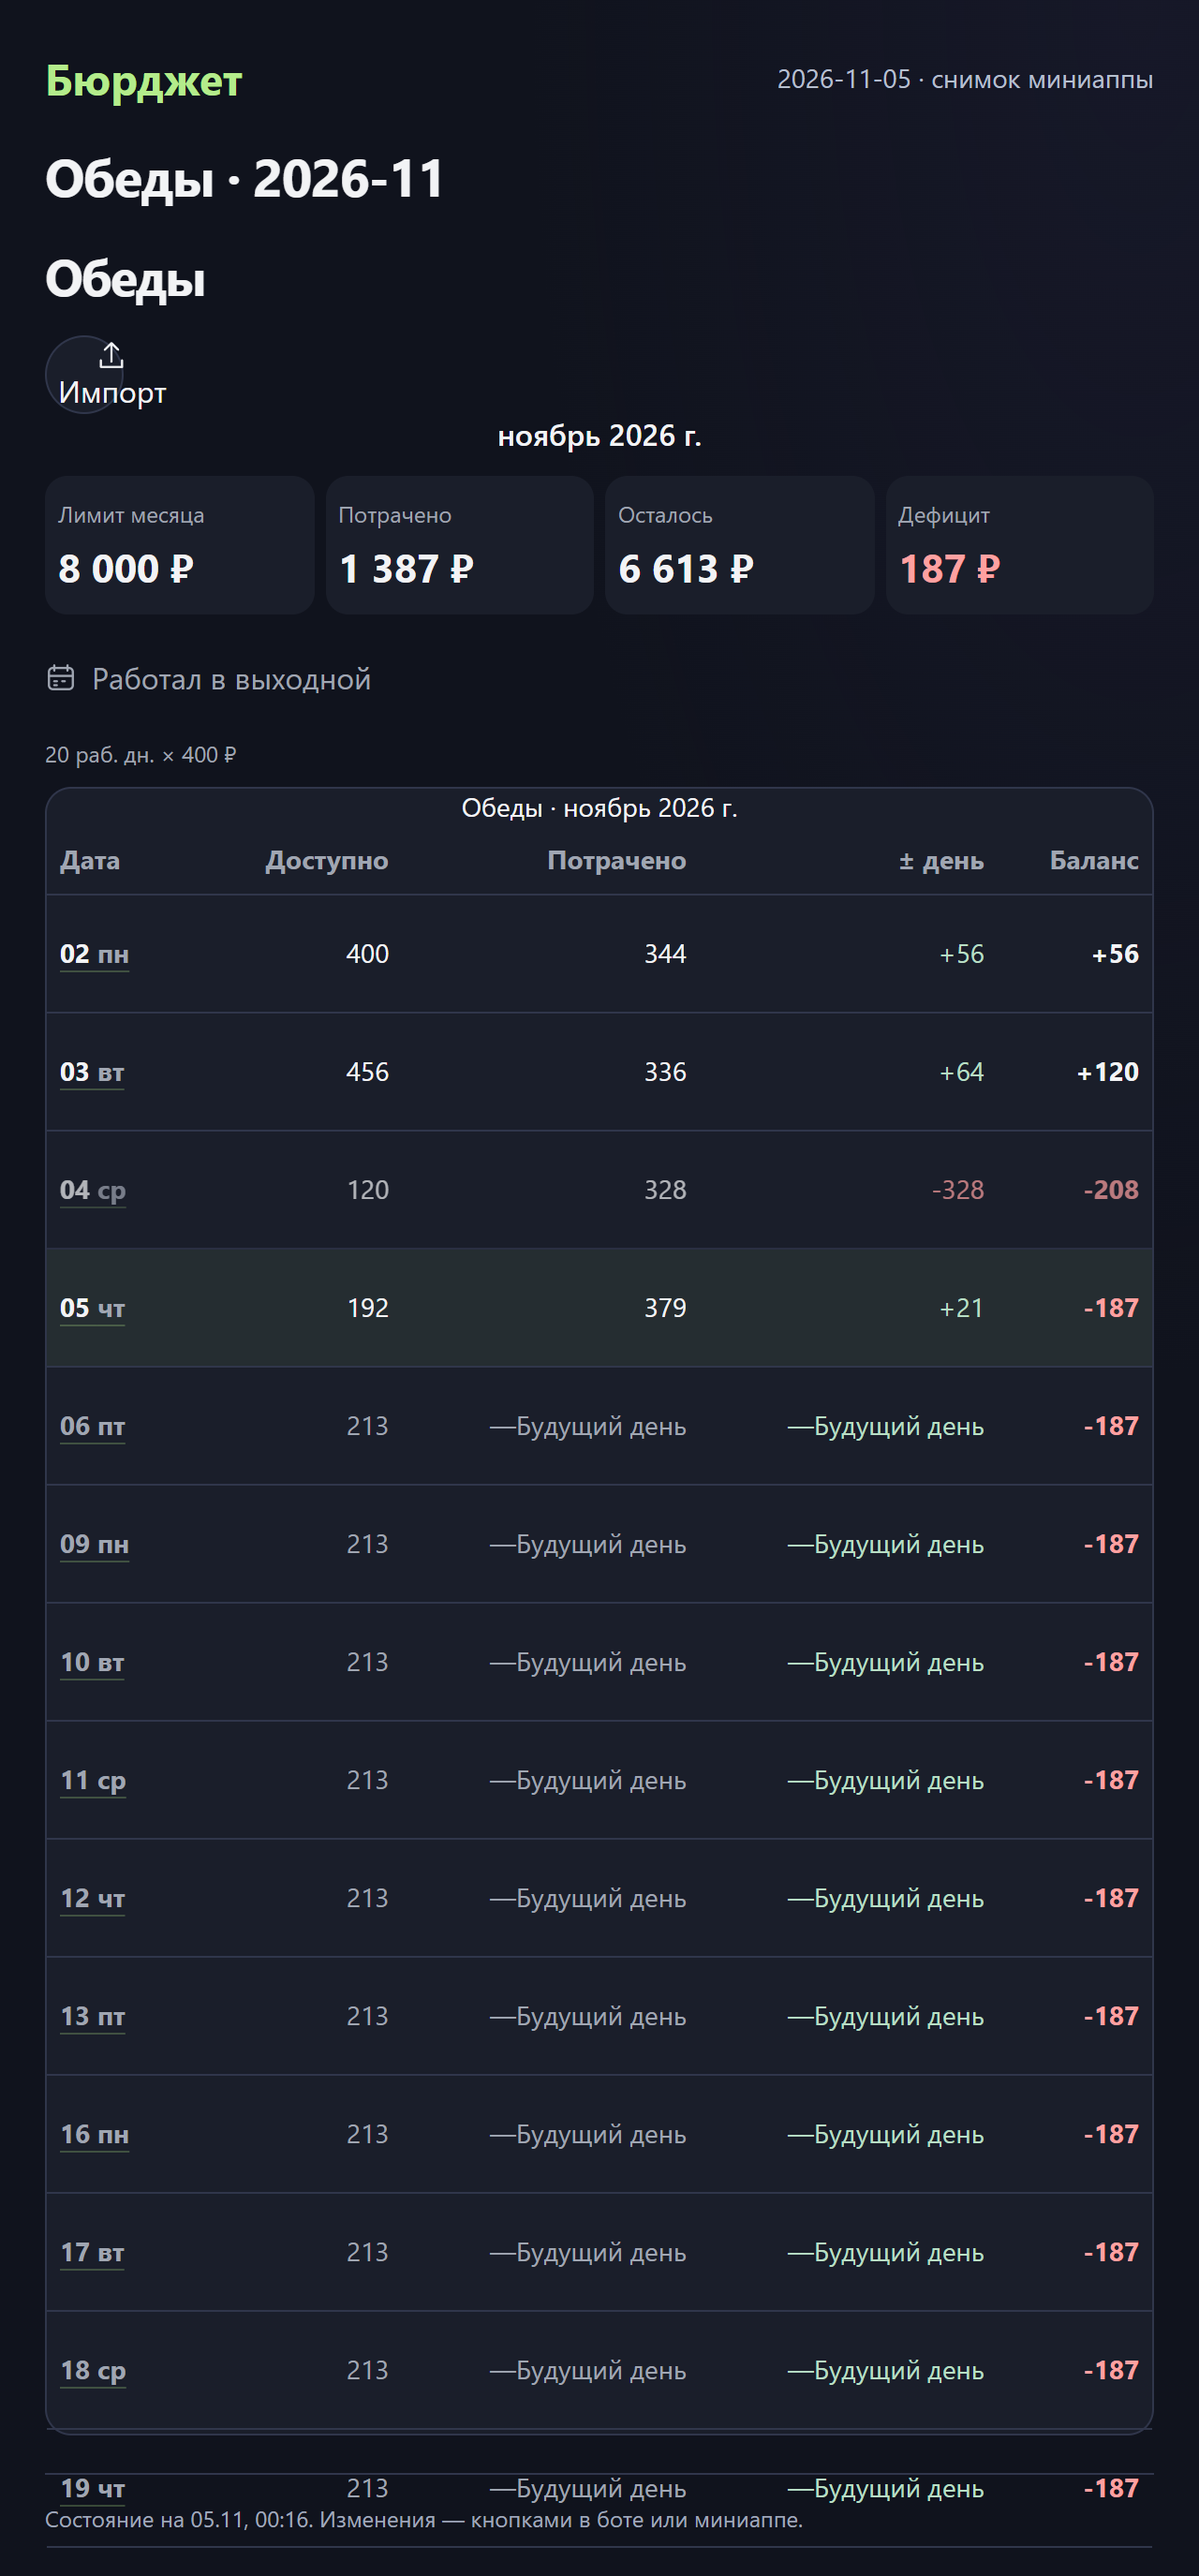
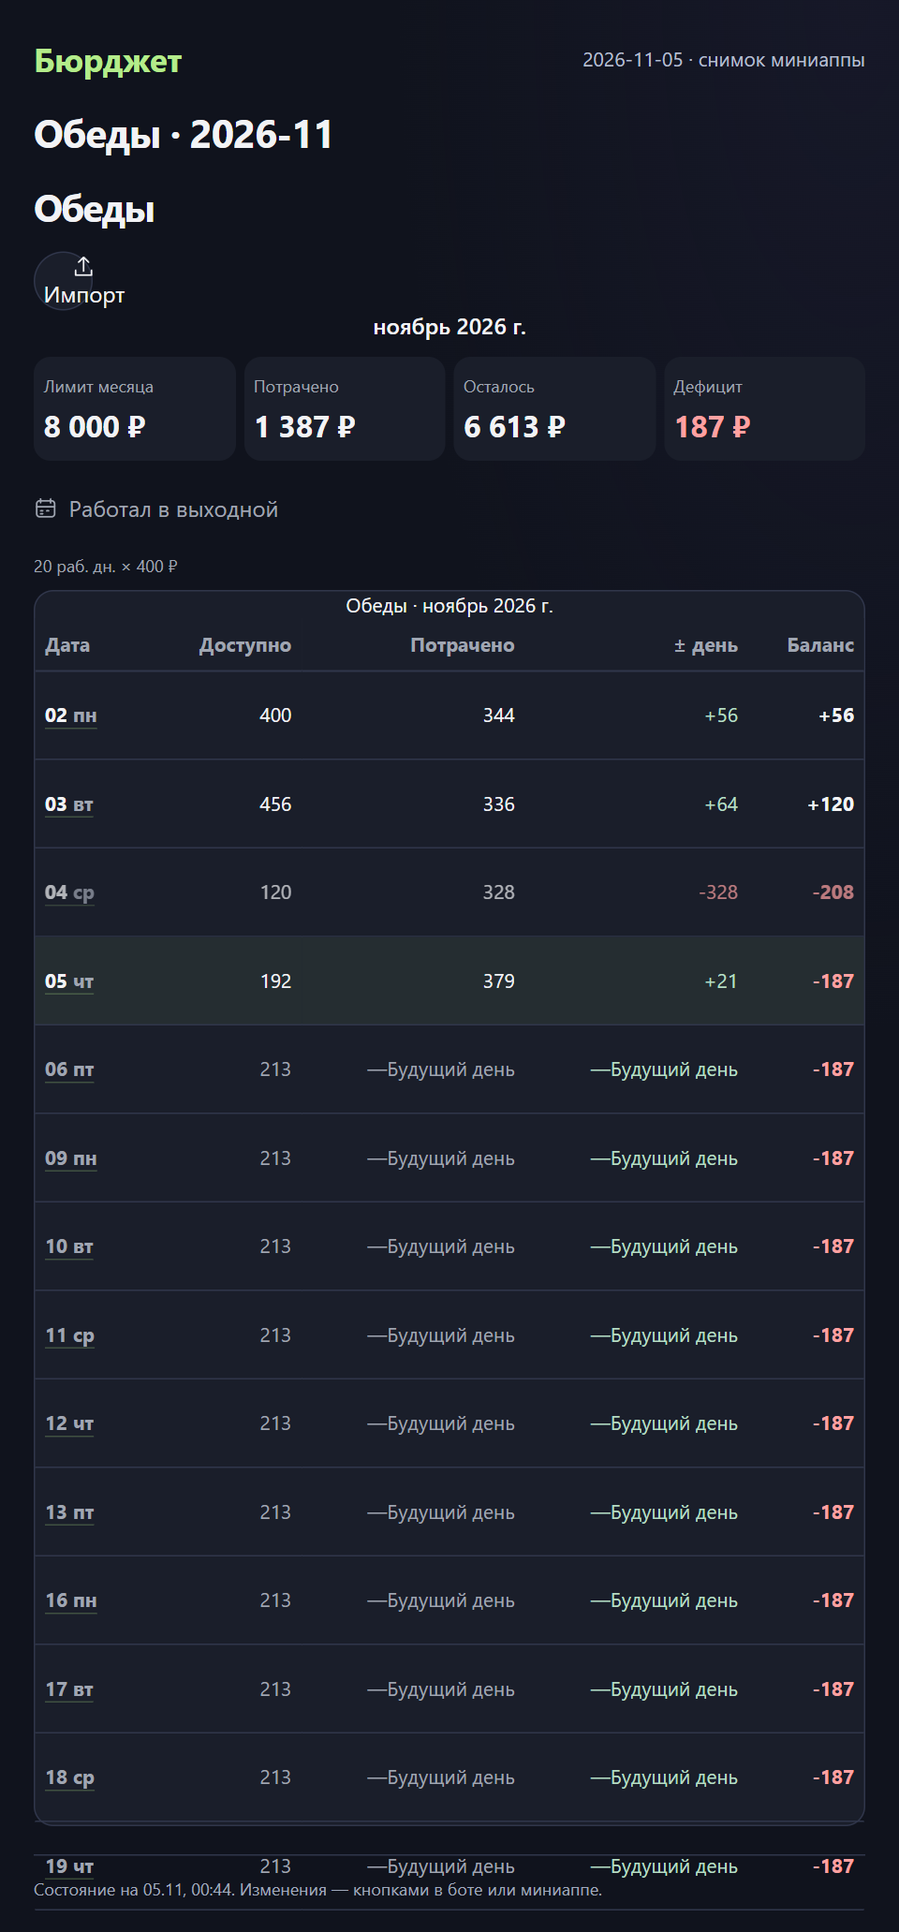
Keep rich bot screenshots within PNG limits and always smoke test deployments

diff --git a/server/bot-pictures.js b/server/bot-pictures.js
@@ -38,7 +38,7 @@ export async function capturePicture(env,data,params){
  if(!env.BROWSER?.quickAction)throw Error('Browser unavailable');
  const {renderReportHtml}=await import('./report-html.jsx');
  const html=renderReportHtml(data,params,undefined,await reportAssets(env));
- const response=await env.BROWSER.quickAction('screenshot',{html,selector:'#report-card',viewport:{width:640,height:1600,deviceScaleFactor:2},setJavaScriptEnabled:false,actionTimeout:8000,gotoOptions:{timeout:8000,waitUntil:'load'},screenshotOptions:{type:'png',captureBeyondViewport:true}});
+ const response=await env.BROWSER.quickAction('screenshot',{html,selector:'#report-card',viewport:{width:640,height:1600,deviceScaleFactor:1.5},setJavaScriptEnabled:false,actionTimeout:8000,gotoOptions:{timeout:8000,waitUntil:'load'},screenshotOptions:{type:'png',captureBeyondViewport:true}});
  if(!response.ok)throw Error('Screenshot unavailable');
  // Bound the response before persisting it in D1; no HTML or user data is logged.
  const reader=response.body.getReader(),parts=[];let total=0;for(;;){const {done,value}=await reader.read();if(done)break;total+=value.length;if(total>MAX_BYTES){await reader.cancel();throw Error('Screenshot too large');}parts.push(value);}

diff --git a/docs/audits/bot-505a/README.md b/docs/audits/bot-505a/README.md
@@ -1,6 +1,6 @@
 # Карточки бота · 5.0.5a
 
-Основа: main 30a8dae (5.0.5). Сравнения сняты scripts/check-bot-cards.mjs на одинаковых вымышленных данных, времени и ширине 640 px (PNG 1280 px). Файлы before-* — прежний renderer из этого коммита; остальные — текущие компоненты и стили.
+Основа: main 30a8dae (5.0.5). Сравнения сняты scripts/check-bot-cards.mjs на одинаковых вымышленных данных, времени и ширине 640 px (PNG 960 px). Файлы before-* — прежний renderer из этого коммита; остальные — текущие компоненты и стили.
 
 ## До → после
 
@@ -24,3 +24,6 @@
 574 автоматических теста, Worker bundle и сборка успешны. Новый тест проходит снимок → ввод 180 ₽ → подтверждение → отмена без второй карточки, проверяя 10 000 → 9 820 → 10 000 ₽. Проверены отсутствие дублей при неизвестной доставке, 429 и неизменившемся сообщении, безопасная замена удалённого сообщения, точные байты текущих ресурсов.
 
 16 настоящих PNG проверены в Chromium: загруженные логотип/шрифт, ширина, отсутствие переполнения, допустимые размеры Telegram (checks.json). Этот шаг добавлен в CI. Реальный клиент Telegram на телефоне не тестировался; тесты доставок используют Telegram API mock.
+
+## Финальная проверка размера PNG
+Первый выпуск выявил пропуск в проверке: геометрия подходила, но PNG насыщенного календаря занимал 2,14 МБ при лимите 1,8 МБ. Масштаб 1,5 вместо 2 сохраняет логическую раскладку 640 px и даёт PNG 960 px. Chromium-проверка теперь вызывает реальный pngInfo для всех 16 файлов и проверяет и байты, и размеры. Публикация проверяет снимок на сервере также без повторной рассылки.
